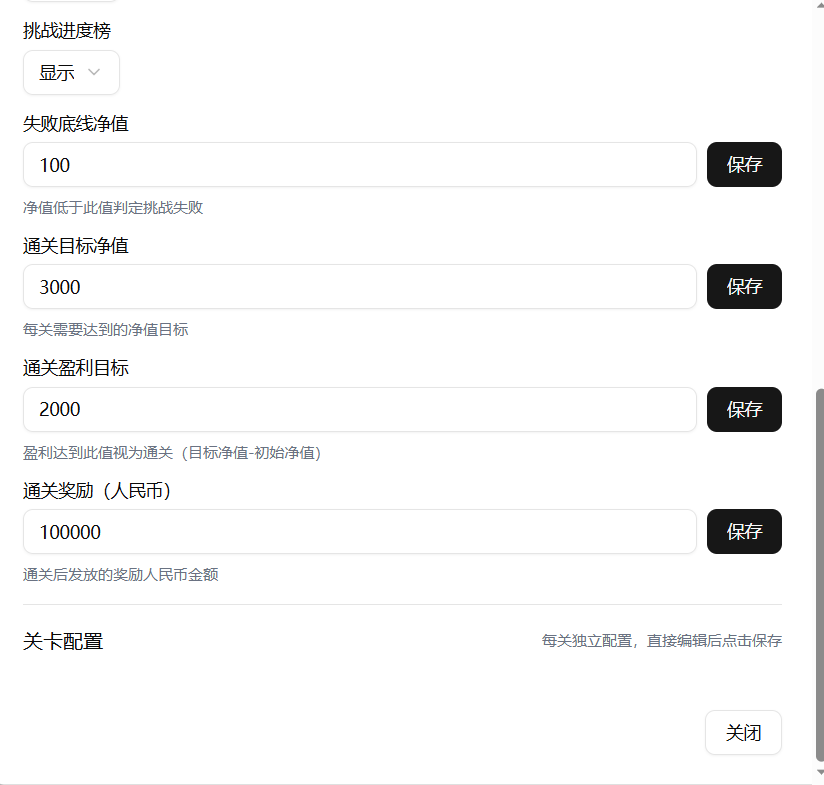
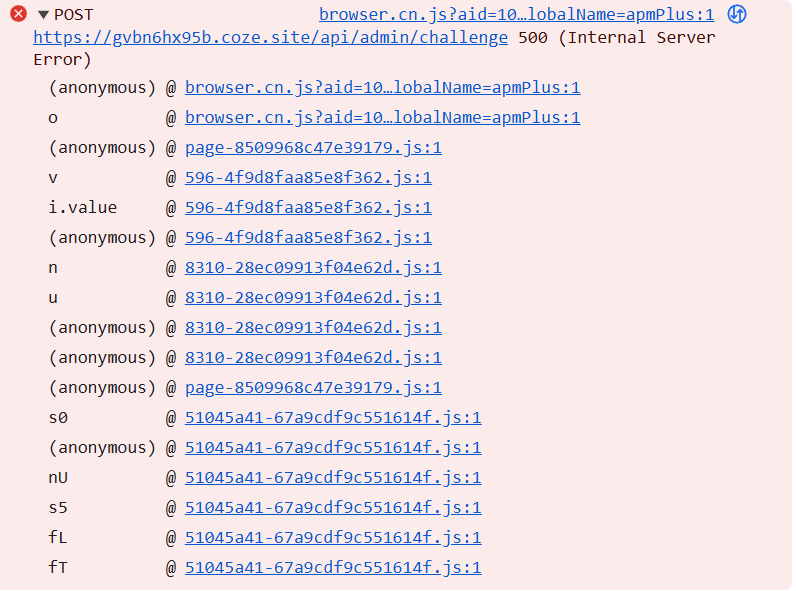
fix: 修复关卡配置保存时 is_active 字段类型不匹配问题

diff --git a/src/app/api/admin/challenge/route.ts b/src/app/api/admin/challenge/route.ts
@@ -36,16 +36,16 @@ async function ensureDefaultConfig(supabase: NonNullable<ReturnType<typeof getSu
     // 如果没有关卡配置，初始化默认关卡
     if (!levelRows || levelRows.length === 0) {
       const defaultLevels = [
-        { level: 1, name: '启念', description: '开始你的交易之旅', target_balance: 6000, initial_balance: 1000, fail_balance: 1800, reward: '继续挑战', is_active: true },
-        { level: 2, name: '立规', description: '建立交易规则', target_balance: 10000, initial_balance: 1000, fail_balance: 1500, reward: '继续挑战', is_active: true },
-        { level: 3, name: '守戒', description: '遵守交易纪律', target_balance: 20000, initial_balance: 1000, fail_balance: 3000, reward: '继续挑战', is_active: true },
-        { level: 4, name: '忍痛', description: '学会止损止盈', target_balance: 20000, initial_balance: 1000, fail_balance: 3000, reward: '继续挑战', is_active: true },
-        { level: 5, name: '止喜', description: '控制情绪波动', target_balance: 20000, initial_balance: 1000, fail_balance: 3000, reward: '继续挑战', is_active: true },
-        { level: 6, name: '观己', description: '认识自我弱点', target_balance: 20000, initial_balance: 1000, fail_balance: 3000, reward: '继续挑战', is_active: true },
-        { level: 7, name: '破执', description: '突破固有思维', target_balance: 20000, initial_balance: 1000, fail_balance: 3000, reward: '继续挑战', is_active: true },
-        { level: 8, name: '随势', description: '顺势而为', target_balance: 20000, initial_balance: 1000, fail_balance: 3000, reward: '继续挑战', is_active: true },
-        { level: 9, name: '忘我', description: '达到交易境界', target_balance: 20000, initial_balance: 1000, fail_balance: 3000, reward: '继续挑战', is_active: true },
-        { level: 10, name: '得道', description: '完成终极挑战', target_balance: 20000, initial_balance: 1000, fail_balance: 3000, reward: '通关大奖', is_active: true },
+        { level: 1, name: '启念', description: '开始你的交易之旅', target_balance: 6000, initial_balance: 1000, fail_balance: 1800, reward: '继续挑战', is_active: 1 },
+        { level: 2, name: '立规', description: '建立交易规则', target_balance: 10000, initial_balance: 1000, fail_balance: 1500, reward: '继续挑战', is_active: 1 },
+        { level: 3, name: '守戒', description: '遵守交易纪律', target_balance: 20000, initial_balance: 1000, fail_balance: 3000, reward: '继续挑战', is_active: 1 },
+        { level: 4, name: '忍痛', description: '学会止损止盈', target_balance: 20000, initial_balance: 1000, fail_balance: 3000, reward: '继续挑战', is_active: 1 },
+        { level: 5, name: '止喜', description: '控制情绪波动', target_balance: 20000, initial_balance: 1000, fail_balance: 3000, reward: '继续挑战', is_active: 1 },
+        { level: 6, name: '观己', description: '认识自我弱点', target_balance: 20000, initial_balance: 1000, fail_balance: 3000, reward: '继续挑战', is_active: 1 },
+        { level: 7, name: '破执', description: '突破固有思维', target_balance: 20000, initial_balance: 1000, fail_balance: 3000, reward: '继续挑战', is_active: 1 },
+        { level: 8, name: '随势', description: '顺势而为', target_balance: 20000, initial_balance: 1000, fail_balance: 3000, reward: '继续挑战', is_active: 1 },
+        { level: 9, name: '忘我', description: '达到交易境界', target_balance: 20000, initial_balance: 1000, fail_balance: 3000, reward: '继续挑战', is_active: 1 },
+        { level: 10, name: '得道', description: '完成终极挑战', target_balance: 20000, initial_balance: 1000, fail_balance: 3000, reward: '通关大奖', is_active: 1 },
       ];
       await supabase.from('challenge_level_config').insert(defaultLevels);
     }
@@ -250,7 +250,7 @@ export async function POST(request: Request) {
       }
 
       const updateData: Record<string, unknown> = {
-        is_active: true,
+        is_active: 1,  // 数据库字段为 integer 类型，1=激活，0=未激活
       };
       if (name !== undefined) updateData.name = name;
       if (description !== undefined) updateData.description = description;
@@ -281,7 +281,7 @@ export async function POST(request: Request) {
       if (!checkData || checkData.length === 0) {
         const insertData: Record<string, unknown> = {
           level,
-          is_active: true,
+          is_active: 1,  // 数据库字段为 integer 类型，1=激活，0=未激活
         };
         if (name !== undefined) insertData.name = name;
         if (description !== undefined) insertData.description = description;
@@ -324,16 +324,16 @@ export async function POST(request: Request) {
     // initLevels - 初始化关卡配置
     if (action === 'initLevels') {
       const defaultLevels = [
-        { level: 1, name: '启念', description: '开始你的交易之旅', target_balance: 6000, initial_balance: 1000, fail_balance: 1800, reward: '继续挑战', is_active: true },
-        { level: 2, name: '立规', description: '建立交易规则', target_balance: 10000, initial_balance: 1000, fail_balance: 1500, reward: '继续挑战', is_active: true },
-        { level: 3, name: '守戒', description: '遵守交易纪律', target_balance: 20000, initial_balance: 1000, fail_balance: 3000, reward: '继续挑战', is_active: true },
-        { level: 4, name: '忍痛', description: '学会止损止盈', target_balance: 20000, initial_balance: 1000, fail_balance: 3000, reward: '继续挑战', is_active: true },
-        { level: 5, name: '止喜', description: '控制情绪波动', target_balance: 20000, initial_balance: 1000, fail_balance: 3000, reward: '继续挑战', is_active: true },
-        { level: 6, name: '观己', description: '认识自我弱点', target_balance: 20000, initial_balance: 1000, fail_balance: 3000, reward: '继续挑战', is_active: true },
-        { level: 7, name: '破执', description: '突破固有思维', target_balance: 20000, initial_balance: 1000, fail_balance: 3000, reward: '继续挑战', is_active: true },
-        { level: 8, name: '随势', description: '顺势而为', target_balance: 20000, initial_balance: 1000, fail_balance: 3000, reward: '继续挑战', is_active: true },
-        { level: 9, name: '忘我', description: '达到交易境界', target_balance: 20000, initial_balance: 1000, fail_balance: 3000, reward: '继续挑战', is_active: true },
-        { level: 10, name: '得道', description: '完成终极挑战', target_balance: 20000, initial_balance: 1000, fail_balance: 3000, reward: '通关大奖', is_active: true },
+        { level: 1, name: '启念', description: '开始你的交易之旅', target_balance: 6000, initial_balance: 1000, fail_balance: 1800, reward: '继续挑战', is_active: 1 },
+        { level: 2, name: '立规', description: '建立交易规则', target_balance: 10000, initial_balance: 1000, fail_balance: 1500, reward: '继续挑战', is_active: 1 },
+        { level: 3, name: '守戒', description: '遵守交易纪律', target_balance: 20000, initial_balance: 1000, fail_balance: 3000, reward: '继续挑战', is_active: 1 },
+        { level: 4, name: '忍痛', description: '学会止损止盈', target_balance: 20000, initial_balance: 1000, fail_balance: 3000, reward: '继续挑战', is_active: 1 },
+        { level: 5, name: '止喜', description: '控制情绪波动', target_balance: 20000, initial_balance: 1000, fail_balance: 3000, reward: '继续挑战', is_active: 1 },
+        { level: 6, name: '观己', description: '认识自我弱点', target_balance: 20000, initial_balance: 1000, fail_balance: 3000, reward: '继续挑战', is_active: 1 },
+        { level: 7, name: '破执', description: '突破固有思维', target_balance: 20000, initial_balance: 1000, fail_balance: 3000, reward: '继续挑战', is_active: 1 },
+        { level: 8, name: '随势', description: '顺势而为', target_balance: 20000, initial_balance: 1000, fail_balance: 3000, reward: '继续挑战', is_active: 1 },
+        { level: 9, name: '忘我', description: '达到交易境界', target_balance: 20000, initial_balance: 1000, fail_balance: 3000, reward: '继续挑战', is_active: 1 },
+        { level: 10, name: '得道', description: '完成终极挑战', target_balance: 20000, initial_balance: 1000, fail_balance: 3000, reward: '通关大奖', is_active: 1 },
       ];
 
       for (const level of defaultLevels) {

diff --git a/src/app/admin/challenge/page.tsx b/src/app/admin/challenge/page.tsx
@@ -271,6 +271,8 @@ export default function ChallengeAdminPage() {
       });
 
       const data = await res.json();
+      console.log('保存关卡配置响应:', res.status, data);
+      
       if (res.ok && data.success) {
         // 检查是否已存在该关卡
         const existingIndex = levelConfigs.findIndex(l => l.level === editingLevel.level);
@@ -295,10 +297,13 @@ export default function ChallengeAdminPage() {
         setLevelDialogOpen(false);
         alert('关卡配置已保存');
       } else {
-        alert(data.error || '保存失败');
+        const errorMsg = data.error || '保存失败';
+        const details = data.details || '';
+        alert(`${errorMsg}${details ? '\n\n详情: ' + details : ''}`);
       }
     } catch (error) {
-      alert('保存失败');
+      console.error('保存关卡配置出错:', error);
+      alert('保存失败，请查看控制台');
     }
   };
 

diff --git a/public/sw.js b/public/sw.js
@@ -1,1 +1,1 @@
-if(!self.define){let e,a={};const d=(d,s)=>(d=new URL(d+".js",s).href,a[d]||new Promise(a=>{if("document"in self){const e=document.createElement("script");e.src=d,e.onload=a,document.head.appendChild(e)}else e=d,importScripts(d),a()}).then(()=>{let e=a[d];if(!e)throw new Error(`Module ${d} didn’t register its module`);return e}));self.define=(s,i)=>{const t=e||("document"in self?document.currentScript.src:"")||location.href;if(a[t])return;let n={};const c=e=>d(e,t),r={module:{uri:t},exports:n,require:c};a[t]=Promise.all(s.map(e=>r[e]||c(e))).then(e=>(i(...e),n))}}define(["./workbox-c05e7c83"],function(e){"use strict";importScripts(),self.skipWaiting(),e.clientsClaim(),e.precacheAndRoute([{url:"/RemoteSender_MT4_v2.1.mq4",revision:"dee0898cc4b05ee8a23b99f9dccd742b"},{url:"/_next/static/chunks/120-d562f716aa27d254.js",revision:"d562f716aa27d254"},{url:"/_next/static/chunks/2290-dbc155e5dec39191.js",revision:"dbc155e5dec39191"},{url:"/_next/static/chunks/248-9f87524f2c231605.js",revision:"9f87524f2c231605"},{url:"/_next/static/chunks/3119-b56b965ce3f0caf7.js",revision:"b56b965ce3f0caf7"},{url:"/_next/static/chunks/3279-fc63a7b1cf42abe6.js",revision:"fc63a7b1cf42abe6"},{url:"/_next/static/chunks/3496-46c82e46d45a46d8.js",revision:"46c82e46d45a46d8"},{url:"/_next/static/chunks/4493-c9ef115cbb84c492.js",revision:"c9ef115cbb84c492"},{url:"/_next/static/chunks/4744-e5e921da100a92ce.js",revision:"e5e921da100a92ce"},{url:"/_next/static/chunks/4834-18d57ec14faf4169.js",revision:"18d57ec14faf4169"},{url:"/_next/static/chunks/4969-0c65cfde9200794c.js",revision:"0c65cfde9200794c"},{url:"/_next/static/chunks/51045a41-67a9cdf9c551614f.js",revision:"67a9cdf9c551614f"},{url:"/_next/static/chunks/5245-ee0a0be458c5cc54.js",revision:"ee0a0be458c5cc54"},{url:"/_next/static/chunks/5356-50d0aef47934fd44.js",revision:"50d0aef47934fd44"},{url:"/_next/static/chunks/596-4f9d8faa85e8f362.js",revision:"4f9d8faa85e8f362"},{url:"/_next/static/chunks/6189-60728e599d6d01e2.js",revision:"60728e599d6d01e2"},{url:"/_next/static/chunks/6300.fd4bf4b9995a76bf.js",revision:"fd4bf4b9995a76bf"},{url:"/_next/static/chunks/6321-dcec66a9d1cf1106.js",revision:"dcec66a9d1cf1106"},{url:"/_next/static/chunks/7853-b979b37b0d2b5f37.js",revision:"b979b37b0d2b5f37"},{url:"/_next/static/chunks/8104-aa69aae00e7cc895.js",revision:"aa69aae00e7cc895"},{url:"/_next/static/chunks/8200-084eb3373158b885.js",revision:"084eb3373158b885"},{url:"/_next/static/chunks/8265-dc3b2021ff5b6765.js",revision:"dc3b2021ff5b6765"},{url:"/_next/static/chunks/8310-28ec09913f04e62d.js",revision:"28ec09913f04e62d"},{url:"/_next/static/chunks/845-718ac55ff4fb6904.js",revision:"718ac55ff4fb6904"},{url:"/_next/static/chunks/9505.6c1ceda4e7b4e25f.js",revision:"6c1ceda4e7b4e25f"},{url:"/_next/static/chunks/9584-2cce6053f0e87db7.js",revision:"2cce6053f0e87db7"},{url:"/_next/static/chunks/9981-049f637e843970da.js",revision:"049f637e843970da"},{url:"/_next/static/chunks/aa136b58-d5713c8be3bfd638.js",revision:"d5713c8be3bfd638"},{url:"/_next/static/chunks/app/_global-error/page-fde39d298d49572a.js",revision:"fde39d298d49572a"},{url:"/_next/static/chunks/app/_not-found/page-3a7ccbd36777898e.js",revision:"3a7ccbd36777898e"},{url:"/_next/static/chunks/app/admin/challenge/page-698c74fe9bb1c4a7.js",revision:"698c74fe9bb1c4a7"},{url:"/_next/static/chunks/app/admin/ea/page-c3be377e8b50b73e.js",revision:"c3be377e8b50b73e"},{url:"/_next/static/chunks/app/admin/page-e78ed893515ea849.js",revision:"e78ed893515ea849"},{url:"/_next/static/chunks/app/api/admin/announcement/route-fde39d298d49572a.js",revision:"fde39d298d49572a"},{url:"/_next/static/chunks/app/api/admin/challenge/route-fde39d298d49572a.js",revision:"fde39d298d49572a"},{url:"/_next/static/chunks/app/api/admin/config/route-fde39d298d49572a.js",revision:"fde39d298d49572a"},{url:"/_next/static/chunks/app/api/admin/db-test/route-fde39d298d49572a.js",revision:"fde39d298d49572a"},{url:"/_next/static/chunks/app/api/admin/docs/route-fde39d298d49572a.js",revision:"fde39d298d49572a"},{url:"/_next/static/chunks/app/api/admin/fix-columns/route-fde39d298d49572a.js",revision:"fde39d298d49572a"},{url:"/_next/static/chunks/app/api/admin/fix-signals/route-fde39d298d49572a.js",revision:"fde39d298d49572a"},{url:"/_next/static/chunks/app/api/admin/init-db/route-fde39d298d49572a.js",revision:"fde39d298d49572a"},{url:"/_next/static/chunks/app/api/admin/init-docs/route-fde39d298d49572a.js",revision:"fde39d298d49572a"},{url:"/_next/static/chunks/app/api/admin/init-ea/route-fde39d298d49572a.js",revision:"fde39d298d49572a"},{url:"/_next/static/chunks/app/api/admin/init/route-fde39d298d49572a.js",revision:"fde39d298d49572a"},{url:"/_next/static/chunks/app/api/admin/migrate-avatar-fix/route-fde39d298d49572a.js",revision:"fde39d298d49572a"},{url:"/_next/static/chunks/app/api/admin/migrate-avatar/route-fde39d298d49572a.js",revision:"fde39d298d49572a"},{url:"/_next/static/chunks/app/api/admin/migrate-forum/route-fde39d298d49572a.js",revision:"fde39d298d49572a"},{url:"/_next/static/chunks/app/api/admin/migrate-name-field/route-fde39d298d49572a.js",revision:"fde39d298d49572a"},{url:"/_next/static/chunks/app/api/admin/migrate-planet-duration/route-fde39d298d49572a.js",revision:"fde39d298d49572a"},{url:"/_next/static/chunks/app/api/admin/migrate-profile/route-fde39d298d49572a.js",revision:"fde39d298d49572a"},{url:"/_next/static/chunks/app/api/admin/migrate/route-fde39d298d49572a.js",revision:"fde39d298d49572a"},{url:"/_next/static/chunks/app/api/admin/recharge/route-fde39d298d49572a.js",revision:"fde39d298d49572a"},{url:"/_next/static/chunks/app/api/admin/stats/route-fde39d298d49572a.js",revision:"fde39d298d49572a"},{url:"/_next/static/chunks/app/api/admin/users/route-fde39d298d49572a.js",revision:"fde39d298d49572a"},{url:"/_next/static/chunks/app/api/auth/%5B...nextauth%5D/route-fde39d298d49572a.js",revision:"fde39d298d49572a"},{url:"/_next/static/chunks/app/api/auth/register/route-fde39d298d49572a.js",revision:"fde39d298d49572a"},{url:"/_next/static/chunks/app/api/challenge/announcement/route-fde39d298d49572a.js",revision:"fde39d298d49572a"},{url:"/_next/static/chunks/app/api/challenge/balance/route-fde39d298d49572a.js",revision:"fde39d298d49572a"},{url:"/_next/static/chunks/app/api/challenge/equity-history/route-fde39d298d49572a.js",revision:"fde39d298d49572a"},{url:"/_next/static/chunks/app/api/challenge/hall-of-fame/route-fde39d298d49572a.js",revision:"fde39d298d49572a"},{url:"/_next/static/chunks/app/api/challenge/hall/detail/route-fde39d298d49572a.js",revision:"fde39d298d49572a"},{url:"/_next/static/chunks/app/api/challenge/hall/route-fde39d298d49572a.js",revision:"fde39d298d49572a"},{url:"/_next/static/chunks/app/api/challenge/init/route-fde39d298d49572a.js",revision:"fde39d298d49572a"},{url:"/_next/static/chunks/app/api/challenge/level/route-fde39d298d49572a.js",revision:"fde39d298d49572a"},{url:"/_next/static/chunks/app/api/challenge/participants/route-fde39d298d49572a.js",revision:"fde39d298d49572a"},{url:"/_next/static/chunks/app/api/challenge/player/%5BuserId%5D/route-fde39d298d49572a.js",revision:"fde39d298d49572a"},{url:"/_next/static/chunks/app/api/challenge/player/%5BuserId%5D/trades/route-fde39d298d49572a.js",revision:"fde39d298d49572a"},{url:"/_next/static/chunks/app/api/challenge/register/route-fde39d298d49572a.js",revision:"fde39d298d49572a"},{url:"/_next/static/chunks/app/api/coin/transfer/route-fde39d298d49572a.js",revision:"fde39d298d49572a"},{url:"/_next/static/chunks/app/api/debug-db/route-fde39d298d49572a.js",revision:"fde39d298d49572a"},{url:"/_next/static/chunks/app/api/docs/route-fde39d298d49572a.js",revision:"fde39d298d49572a"},{url:"/_next/static/chunks/app/api/ea/download/route-fde39d298d49572a.js",revision:"fde39d298d49572a"},{url:"/_next/static/chunks/app/api/ea/list/route-fde39d298d49572a.js",revision:"fde39d298d49572a"},{url:"/_next/static/chunks/app/api/ea/manage/route-fde39d298d49572a.js",revision:"fde39d298d49572a"},{url:"/_next/static/chunks/app/api/ea/products/route-fde39d298d49572a.js",revision:"fde39d298d49572a"},{url:"/_next/static/chunks/app/api/ea/purchase/route-fde39d298d49572a.js",revision:"fde39d298d49572a"},{url:"/_next/static/chunks/app/api/ea/upload/route-fde39d298d49572a.js",revision:"fde39d298d49572a"},{url:"/_next/static/chunks/app/api/equity/report/route-fde39d298d49572a.js",revision:"fde39d298d49572a"},{url:"/_next/static/chunks/app/api/follow/my/route-fde39d298d49572a.js",revision:"fde39d298d49572a"},{url:"/_next/static/chunks/app/api/follow/pause/route-fde39d298d49572a.js",revision:"fde39d298d49572a"},{url:"/_next/static/chunks/app/api/follow/route-fde39d298d49572a.js",revision:"fde39d298d49572a"},{url:"/_next/static/chunks/app/api/health/route-fde39d298d49572a.js",revision:"fde39d298d49572a"},{url:"/_next/static/chunks/app/api/message/conversations/route-fde39d298d49572a.js",revision:"fde39d298d49572a"},{url:"/_next/static/chunks/app/api/message/send/route-fde39d298d49572a.js",revision:"fde39d298d49572a"},{url:"/_next/static/chunks/app/api/message/upload/route-fde39d298d49572a.js",revision:"fde39d298d49572a"},{url:"/_next/static/chunks/app/api/mt-account/route-fde39d298d49572a.js",revision:"fde39d298d49572a"},{url:"/_next/static/chunks/app/api/planet/%5Bid%5D/route-fde39d298d49572a.js",revision:"fde39d298d49572a"},{url:"/_next/static/chunks/app/api/planet/applications/route-fde39d298d49572a.js",revision:"fde39d298d49572a"},{url:"/_next/static/chunks/app/api/planet/apply-publisher/route-fde39d298d49572a.js",revision:"fde39d298d49572a"},{url:"/_next/static/chunks/app/api/planet/approve-publisher/route-fde39d298d49572a.js",revision:"fde39d298d49572a"},{url:"/_next/static/chunks/app/api/planet/create/route-fde39d298d49572a.js",revision:"fde39d298d49572a"},{url:"/_next/static/chunks/app/api/planet/join/route-fde39d298d49572a.js",revision:"fde39d298d49572a"},{url:"/_next/static/chunks/app/api/planet/list/route-fde39d298d49572a.js",revision:"fde39d298d49572a"},{url:"/_next/static/chunks/app/api/planet/members/route-fde39d298d49572a.js",revision:"fde39d298d49572a"},{url:"/_next/static/chunks/app/api/planet/my/route-fde39d298d49572a.js",revision:"fde39d298d49572a"},{url:"/_next/static/chunks/app/api/planet/reject-publisher/route-fde39d298d49572a.js",revision:"fde39d298d49572a"},{url:"/_next/static/chunks/app/api/planet/set-owner-publisher/route-fde39d298d49572a.js",revision:"fde39d298d49572a"},{url:"/_next/static/chunks/app/api/planet/set-ticket/route-fde39d298d49572a.js",revision:"fde39d298d49572a"},{url:"/_next/static/chunks/app/api/planet/update/route-fde39d298d49572a.js",revision:"fde39d298d49572a"},{url:"/_next/static/chunks/app/api/purchase/validate/route-fde39d298d49572a.js",revision:"fde39d298d49572a"},{url:"/_next/static/chunks/app/api/read-doc/route-fde39d298d49572a.js",revision:"fde39d298d49572a"},{url:"/_next/static/chunks/app/api/recharge/apply/route-fde39d298d49572a.js",revision:"fde39d298d49572a"},{url:"/_next/static/chunks/app/api/recharge/route-fde39d298d49572a.js",revision:"fde39d298d49572a"},{url:"/_next/static/chunks/app/api/recharge/upload/route-fde39d298d49572a.js",revision:"fde39d298d49572a"},{url:"/_next/static/chunks/app/api/signal/%5Bid%5D/route-fde39d298d49572a.js",revision:"fde39d298d49572a"},{url:"/_next/static/chunks/app/api/signal/receive/route-fde39d298d49572a.js",revision:"fde39d298d49572a"},{url:"/_next/static/chunks/app/api/signals/detail/route-fde39d298d49572a.js",revision:"fde39d298d49572a"},{url:"/_next/static/chunks/app/api/signals/poll/route-fde39d298d49572a.js",revision:"fde39d298d49572a"},{url:"/_next/static/chunks/app/api/signals/stats/route-fde39d298d49572a.js",revision:"fde39d298d49572a"},{url:"/_next/static/chunks/app/api/upload-code/route-fde39d298d49572a.js",revision:"fde39d298d49572a"},{url:"/_next/static/chunks/app/api/upload/screenshot/route-fde39d298d49572a.js",revision:"fde39d298d49572a"},{url:"/_next/static/chunks/app/api/user/avatar/route-fde39d298d49572a.js",revision:"fde39d298d49572a"},{url:"/_next/static/chunks/app/api/user/follow/list/route-fde39d298d49572a.js",revision:"fde39d298d49572a"},{url:"/_next/static/chunks/app/api/user/follow/route-fde39d298d49572a.js",revision:"fde39d298d49572a"},{url:"/_next/static/chunks/app/api/user/info/route-fde39d298d49572a.js",revision:"fde39d298d49572a"},{url:"/_next/static/chunks/app/api/user/name/route-fde39d298d49572a.js",revision:"fde39d298d49572a"},{url:"/_next/static/chunks/app/api/user/profile/route-fde39d298d49572a.js",revision:"fde39d298d49572a"},{url:"/_next/static/chunks/app/api/user/search/route-fde39d298d49572a.js",revision:"fde39d298d49572a"},{url:"/_next/static/chunks/app/challenge/hall-of-fame/page-c9c8bb92e172543e.js",revision:"c9c8bb92e172543e"},{url:"/_next/static/chunks/app/challenge/hall/detail/page-6a0904f5ee2e88b4.js",revision:"6a0904f5ee2e88b4"},{url:"/_next/static/chunks/app/challenge/hall/page-769a500987a652ca.js",revision:"769a500987a652ca"},{url:"/_next/static/chunks/app/challenge/page-b0437daf03a4033e.js",revision:"b0437daf03a4033e"},{url:"/_next/static/chunks/app/challenge/play/page-dec9dfb1290ddd3d.js",revision:"dec9dfb1290ddd3d"},{url:"/_next/static/chunks/app/challenge/player/%5BuserId%5D/page-b972aec196f73c3d.js",revision:"b972aec196f73c3d"},{url:"/_next/static/chunks/app/diagnose/page-92c6d17db6fa0ea4.js",revision:"92c6d17db6fa0ea4"},{url:"/_next/static/chunks/app/docs/page-7fc46ef9dff33095.js",revision:"7fc46ef9dff33095"},{url:"/_next/static/chunks/app/download/android/page-d1713c5d945f4f28.js",revision:"d1713c5d945f4f28"},{url:"/_next/static/chunks/app/download/page-9e3b0cba6a01f1c8.js",revision:"9e3b0cba6a01f1c8"},{url:"/_next/static/chunks/app/layout-daec6dee9a6552a8.js",revision:"daec6dee9a6552a8"},{url:"/_next/static/chunks/app/login/page-72cbe983df3f98b4.js",revision:"72cbe983df3f98b4"},{url:"/_next/static/chunks/app/page-3ac27f4a555c1f2c.js",revision:"3ac27f4a555c1f2c"},{url:"/_next/static/chunks/app/planet/%5Bid%5D/page-227dc066e12b4471.js",revision:"227dc066e12b4471"},{url:"/_next/static/chunks/app/planet/create/page-dd423c427b7e6d49.js",revision:"dd423c427b7e6d49"},{url:"/_next/static/chunks/app/planet/manage/%5Bid%5D/page-a2ad103ccbf4c517.js",revision:"a2ad103ccbf4c517"},{url:"/_next/static/chunks/app/planet/my/page-60cb759fb4ab9ca7.js",revision:"60cb759fb4ab9ca7"},{url:"/_next/static/chunks/app/planet/page-7137ef7a3ffa106c.js",revision:"7137ef7a3ffa106c"},{url:"/_next/static/chunks/app/register/page-a3d7c2df06546348.js",revision:"a3d7c2df06546348"},{url:"/_next/static/chunks/app/robots.txt/route-fde39d298d49572a.js",revision:"fde39d298d49572a"},{url:"/_next/static/chunks/app/signal/%5Baccount%5D/page-ff0340133fcf237b.js",revision:"ff0340133fcf237b"},{url:"/_next/static/chunks/app/social/page-6e9343de279803f8.js",revision:"6e9343de279803f8"},{url:"/_next/static/chunks/app/user/page-64e43a14dd2d8b76.js",revision:"64e43a14dd2d8b76"},{url:"/_next/static/chunks/framework-55ab4b4de3eb4ec8.js",revision:"55ab4b4de3eb4ec8"},{url:"/_next/static/chunks/main-2e50d6483b5a78b0.js",revision:"2e50d6483b5a78b0"},{url:"/_next/static/chunks/main-app-e2a6d6c57a4d8e1c.js",revision:"e2a6d6c57a4d8e1c"},{url:"/_next/static/chunks/next/dist/client/components/builtin/app-error-fde39d298d49572a.js",revision:"fde39d298d49572a"},{url:"/_next/static/chunks/next/dist/client/components/builtin/forbidden-fde39d298d49572a.js",revision:"fde39d298d49572a"},{url:"/_next/static/chunks/next/dist/client/components/builtin/global-error-0a754105eadbaae1.js",revision:"0a754105eadbaae1"},{url:"/_next/static/chunks/next/dist/client/components/builtin/not-found-fde39d298d49572a.js",revision:"fde39d298d49572a"},{url:"/_next/static/chunks/next/dist/client/components/builtin/unauthorized-fde39d298d49572a.js",revision:"fde39d298d49572a"},{url:"/_next/static/chunks/polyfills-42372ed130431b0a.js",revision:"846118c33b2c0e922d7b3a7676f81f6f"},{url:"/_next/static/chunks/webpack-57b6405ace3c677f.js",revision:"57b6405ace3c677f"},{url:"/_next/static/css/0366189a42ba2609.css",revision:"0366189a42ba2609"},{url:"/_next/static/css/1d33e9b82c6d193e.css",revision:"1d33e9b82c6d193e"},{url:"/_next/static/css/5082389ef2110b63.css",revision:"5082389ef2110b63"},{url:"/_next/static/css/5d83e0ada55d2773.css",revision:"5d83e0ada55d2773"},{url:"/_next/static/css/813ffdc51a90edf4.css",revision:"813ffdc51a90edf4"},{url:"/_next/static/yi6AKACnMVJCiDGVJrG3r/_buildManifest.js",revision:"1ab061800ad5133040385a0730de5f4f"},{url:"/_next/static/yi6AKACnMVJCiDGVJrG3r/_ssgManifest.js",revision:"b6652df95db52feb4daf4eca35380933"},{url:"/download/miaolegemiao-android-app.tar.gz",revision:"8fdf33b2f0d98967e3bdf7a0774030d9"},{url:"/favicon.ico",revision:"0fc672880a975cfc4c8c7ad923823a9b"},{url:"/file.svg",revision:"d09f95206c3fa0bb9bd9fefabfd0ea71"},{url:"/globe.svg",revision:"2aaafa6a49b6563925fe440891e32717"},{url:"/icons/icon-128x128.png",revision:"540845157d80ab5347417294edc58c75"},{url:"/icons/icon-144x144.png",revision:"5fcf60988225c374886f65e018750850"},{url:"/icons/icon-152x152.png",revision:"a93f7b53c274a5d0f59026e5b83ad4df"},{url:"/icons/icon-192x192.png",revision:"5f48501726515a163395780abf6dc285"},{url:"/icons/icon-384x384.png",revision:"b7935298f36c245c91b895af5c107379"},{url:"/icons/icon-512x512.png",revision:"d2d569b7047e08cc0deb4e2eb166c2fa"},{url:"/icons/icon-72x72.png",revision:"1fc09bb2b71ef3aba10bf741e8e81d67"},{url:"/icons/icon-96x96.png",revision:"f35dad04d8b668a966da8e64c97acc23"},{url:"/icons/icon.svg",revision:"a085adc932541bfe397f09a0db4982bc"},{url:"/icons/planet-shortcut.png",revision:"fece5f9f80fb7384d3df1390e08fab28"},{url:"/icons/user-shortcut.png",revision:"0c5f5b8686ec799c4fb1b70acb9ca401"},{url:"/logo.png",revision:"04165e83c749c9be3d0289920ce60209"},{url:"/manifest.json",revision:"8158ac4504cfac44d80432ed7276e8a6"},{url:"/mlmg-planet-code.tar.gz",revision:"bc2c0901539bbfa25b58c0ec48452300"},{url:"/next.svg",revision:"8e061864f388b47f33a1c3780831193e"},{url:"/vercel.svg",revision:"c0af2f507b369b085b35ef4bbe3bcf1e"},{url:"/window.svg",revision:"a2760511c65806022ad20adf74370ff3"},{url:"/跟单接收端EA.mq5",revision:"55bdd58fd0a1513ed92d91fc1e71d6a9"}],{ignoreURLParametersMatching:[]}),e.cleanupOutdatedCaches(),e.registerRoute("/",new e.NetworkFirst({cacheName:"start-url",plugins:[{cacheWillUpdate:async({request:e,response:a,event:d,state:s})=>a&&"opaqueredirect"===a.type?new Response(a.body,{status:200,statusText:"OK",headers:a.headers}):a}]}),"GET"),e.registerRoute(/^https:\/\/.*\.(?:png|jpg|jpeg|svg|gif|webp|ico)$/i,new e.CacheFirst({cacheName:"images-cache",plugins:[new e.ExpirationPlugin({maxEntries:50,maxAgeSeconds:2592e3})]}),"GET"),e.registerRoute(/^https:\/\/.*\.(?:js|css)$/i,new e.StaleWhileRevalidate({cacheName:"static-resources",plugins:[new e.ExpirationPlugin({maxEntries:30,maxAgeSeconds:604800})]}),"GET"),e.registerRoute(/\/api\//i,new e.NetworkFirst({cacheName:"api-cache",networkTimeoutSeconds:10,plugins:[new e.ExpirationPlugin({maxEntries:50,maxAgeSeconds:300})]}),"GET")});
+if(!self.define){let e,a={};const d=(d,s)=>(d=new URL(d+".js",s).href,a[d]||new Promise(a=>{if("document"in self){const e=document.createElement("script");e.src=d,e.onload=a,document.head.appendChild(e)}else e=d,importScripts(d),a()}).then(()=>{let e=a[d];if(!e)throw new Error(`Module ${d} didn’t register its module`);return e}));self.define=(s,i)=>{const t=e||("document"in self?document.currentScript.src:"")||location.href;if(a[t])return;let n={};const c=e=>d(e,t),r={module:{uri:t},exports:n,require:c};a[t]=Promise.all(s.map(e=>r[e]||c(e))).then(e=>(i(...e),n))}}define(["./workbox-c05e7c83"],function(e){"use strict";importScripts(),self.skipWaiting(),e.clientsClaim(),e.precacheAndRoute([{url:"/RemoteSender_MT4_v2.1.mq4",revision:"dee0898cc4b05ee8a23b99f9dccd742b"},{url:"/_next/static/6y3GVLJDgCysX2MiB9Rsb/_buildManifest.js",revision:"1ab061800ad5133040385a0730de5f4f"},{url:"/_next/static/6y3GVLJDgCysX2MiB9Rsb/_ssgManifest.js",revision:"b6652df95db52feb4daf4eca35380933"},{url:"/_next/static/chunks/120-d562f716aa27d254.js",revision:"d562f716aa27d254"},{url:"/_next/static/chunks/2290-dbc155e5dec39191.js",revision:"dbc155e5dec39191"},{url:"/_next/static/chunks/248-9f87524f2c231605.js",revision:"9f87524f2c231605"},{url:"/_next/static/chunks/3119-b56b965ce3f0caf7.js",revision:"b56b965ce3f0caf7"},{url:"/_next/static/chunks/3279-fc63a7b1cf42abe6.js",revision:"fc63a7b1cf42abe6"},{url:"/_next/static/chunks/3496-46c82e46d45a46d8.js",revision:"46c82e46d45a46d8"},{url:"/_next/static/chunks/4493-c9ef115cbb84c492.js",revision:"c9ef115cbb84c492"},{url:"/_next/static/chunks/4744-e5e921da100a92ce.js",revision:"e5e921da100a92ce"},{url:"/_next/static/chunks/4834-18d57ec14faf4169.js",revision:"18d57ec14faf4169"},{url:"/_next/static/chunks/4969-0c65cfde9200794c.js",revision:"0c65cfde9200794c"},{url:"/_next/static/chunks/51045a41-67a9cdf9c551614f.js",revision:"67a9cdf9c551614f"},{url:"/_next/static/chunks/5245-ee0a0be458c5cc54.js",revision:"ee0a0be458c5cc54"},{url:"/_next/static/chunks/5356-50d0aef47934fd44.js",revision:"50d0aef47934fd44"},{url:"/_next/static/chunks/596-4f9d8faa85e8f362.js",revision:"4f9d8faa85e8f362"},{url:"/_next/static/chunks/6189-60728e599d6d01e2.js",revision:"60728e599d6d01e2"},{url:"/_next/static/chunks/6300.fd4bf4b9995a76bf.js",revision:"fd4bf4b9995a76bf"},{url:"/_next/static/chunks/6321-dcec66a9d1cf1106.js",revision:"dcec66a9d1cf1106"},{url:"/_next/static/chunks/7853-b979b37b0d2b5f37.js",revision:"b979b37b0d2b5f37"},{url:"/_next/static/chunks/8104-aa69aae00e7cc895.js",revision:"aa69aae00e7cc895"},{url:"/_next/static/chunks/8200-084eb3373158b885.js",revision:"084eb3373158b885"},{url:"/_next/static/chunks/8265-dc3b2021ff5b6765.js",revision:"dc3b2021ff5b6765"},{url:"/_next/static/chunks/8310-28ec09913f04e62d.js",revision:"28ec09913f04e62d"},{url:"/_next/static/chunks/845-718ac55ff4fb6904.js",revision:"718ac55ff4fb6904"},{url:"/_next/static/chunks/9505.6c1ceda4e7b4e25f.js",revision:"6c1ceda4e7b4e25f"},{url:"/_next/static/chunks/9584-2cce6053f0e87db7.js",revision:"2cce6053f0e87db7"},{url:"/_next/static/chunks/9981-049f637e843970da.js",revision:"049f637e843970da"},{url:"/_next/static/chunks/aa136b58-d5713c8be3bfd638.js",revision:"d5713c8be3bfd638"},{url:"/_next/static/chunks/app/_global-error/page-fde39d298d49572a.js",revision:"fde39d298d49572a"},{url:"/_next/static/chunks/app/_not-found/page-3a7ccbd36777898e.js",revision:"3a7ccbd36777898e"},{url:"/_next/static/chunks/app/admin/challenge/page-538b2d766cd090b8.js",revision:"538b2d766cd090b8"},{url:"/_next/static/chunks/app/admin/ea/page-c3be377e8b50b73e.js",revision:"c3be377e8b50b73e"},{url:"/_next/static/chunks/app/admin/page-e78ed893515ea849.js",revision:"e78ed893515ea849"},{url:"/_next/static/chunks/app/api/admin/announcement/route-fde39d298d49572a.js",revision:"fde39d298d49572a"},{url:"/_next/static/chunks/app/api/admin/challenge/route-fde39d298d49572a.js",revision:"fde39d298d49572a"},{url:"/_next/static/chunks/app/api/admin/config/route-fde39d298d49572a.js",revision:"fde39d298d49572a"},{url:"/_next/static/chunks/app/api/admin/db-test/route-fde39d298d49572a.js",revision:"fde39d298d49572a"},{url:"/_next/static/chunks/app/api/admin/docs/route-fde39d298d49572a.js",revision:"fde39d298d49572a"},{url:"/_next/static/chunks/app/api/admin/fix-columns/route-fde39d298d49572a.js",revision:"fde39d298d49572a"},{url:"/_next/static/chunks/app/api/admin/fix-signals/route-fde39d298d49572a.js",revision:"fde39d298d49572a"},{url:"/_next/static/chunks/app/api/admin/init-db/route-fde39d298d49572a.js",revision:"fde39d298d49572a"},{url:"/_next/static/chunks/app/api/admin/init-docs/route-fde39d298d49572a.js",revision:"fde39d298d49572a"},{url:"/_next/static/chunks/app/api/admin/init-ea/route-fde39d298d49572a.js",revision:"fde39d298d49572a"},{url:"/_next/static/chunks/app/api/admin/init/route-fde39d298d49572a.js",revision:"fde39d298d49572a"},{url:"/_next/static/chunks/app/api/admin/migrate-avatar-fix/route-fde39d298d49572a.js",revision:"fde39d298d49572a"},{url:"/_next/static/chunks/app/api/admin/migrate-avatar/route-fde39d298d49572a.js",revision:"fde39d298d49572a"},{url:"/_next/static/chunks/app/api/admin/migrate-forum/route-fde39d298d49572a.js",revision:"fde39d298d49572a"},{url:"/_next/static/chunks/app/api/admin/migrate-name-field/route-fde39d298d49572a.js",revision:"fde39d298d49572a"},{url:"/_next/static/chunks/app/api/admin/migrate-planet-duration/route-fde39d298d49572a.js",revision:"fde39d298d49572a"},{url:"/_next/static/chunks/app/api/admin/migrate-profile/route-fde39d298d49572a.js",revision:"fde39d298d49572a"},{url:"/_next/static/chunks/app/api/admin/migrate/route-fde39d298d49572a.js",revision:"fde39d298d49572a"},{url:"/_next/static/chunks/app/api/admin/recharge/route-fde39d298d49572a.js",revision:"fde39d298d49572a"},{url:"/_next/static/chunks/app/api/admin/stats/route-fde39d298d49572a.js",revision:"fde39d298d49572a"},{url:"/_next/static/chunks/app/api/admin/users/route-fde39d298d49572a.js",revision:"fde39d298d49572a"},{url:"/_next/static/chunks/app/api/auth/%5B...nextauth%5D/route-fde39d298d49572a.js",revision:"fde39d298d49572a"},{url:"/_next/static/chunks/app/api/auth/register/route-fde39d298d49572a.js",revision:"fde39d298d49572a"},{url:"/_next/static/chunks/app/api/challenge/announcement/route-fde39d298d49572a.js",revision:"fde39d298d49572a"},{url:"/_next/static/chunks/app/api/challenge/balance/route-fde39d298d49572a.js",revision:"fde39d298d49572a"},{url:"/_next/static/chunks/app/api/challenge/equity-history/route-fde39d298d49572a.js",revision:"fde39d298d49572a"},{url:"/_next/static/chunks/app/api/challenge/hall-of-fame/route-fde39d298d49572a.js",revision:"fde39d298d49572a"},{url:"/_next/static/chunks/app/api/challenge/hall/detail/route-fde39d298d49572a.js",revision:"fde39d298d49572a"},{url:"/_next/static/chunks/app/api/challenge/hall/route-fde39d298d49572a.js",revision:"fde39d298d49572a"},{url:"/_next/static/chunks/app/api/challenge/init/route-fde39d298d49572a.js",revision:"fde39d298d49572a"},{url:"/_next/static/chunks/app/api/challenge/level/route-fde39d298d49572a.js",revision:"fde39d298d49572a"},{url:"/_next/static/chunks/app/api/challenge/participants/route-fde39d298d49572a.js",revision:"fde39d298d49572a"},{url:"/_next/static/chunks/app/api/challenge/player/%5BuserId%5D/route-fde39d298d49572a.js",revision:"fde39d298d49572a"},{url:"/_next/static/chunks/app/api/challenge/player/%5BuserId%5D/trades/route-fde39d298d49572a.js",revision:"fde39d298d49572a"},{url:"/_next/static/chunks/app/api/challenge/register/route-fde39d298d49572a.js",revision:"fde39d298d49572a"},{url:"/_next/static/chunks/app/api/coin/transfer/route-fde39d298d49572a.js",revision:"fde39d298d49572a"},{url:"/_next/static/chunks/app/api/debug-db/route-fde39d298d49572a.js",revision:"fde39d298d49572a"},{url:"/_next/static/chunks/app/api/docs/route-fde39d298d49572a.js",revision:"fde39d298d49572a"},{url:"/_next/static/chunks/app/api/ea/download/route-fde39d298d49572a.js",revision:"fde39d298d49572a"},{url:"/_next/static/chunks/app/api/ea/list/route-fde39d298d49572a.js",revision:"fde39d298d49572a"},{url:"/_next/static/chunks/app/api/ea/manage/route-fde39d298d49572a.js",revision:"fde39d298d49572a"},{url:"/_next/static/chunks/app/api/ea/products/route-fde39d298d49572a.js",revision:"fde39d298d49572a"},{url:"/_next/static/chunks/app/api/ea/purchase/route-fde39d298d49572a.js",revision:"fde39d298d49572a"},{url:"/_next/static/chunks/app/api/ea/upload/route-fde39d298d49572a.js",revision:"fde39d298d49572a"},{url:"/_next/static/chunks/app/api/equity/report/route-fde39d298d49572a.js",revision:"fde39d298d49572a"},{url:"/_next/static/chunks/app/api/follow/my/route-fde39d298d49572a.js",revision:"fde39d298d49572a"},{url:"/_next/static/chunks/app/api/follow/pause/route-fde39d298d49572a.js",revision:"fde39d298d49572a"},{url:"/_next/static/chunks/app/api/follow/route-fde39d298d49572a.js",revision:"fde39d298d49572a"},{url:"/_next/static/chunks/app/api/health/route-fde39d298d49572a.js",revision:"fde39d298d49572a"},{url:"/_next/static/chunks/app/api/message/conversations/route-fde39d298d49572a.js",revision:"fde39d298d49572a"},{url:"/_next/static/chunks/app/api/message/send/route-fde39d298d49572a.js",revision:"fde39d298d49572a"},{url:"/_next/static/chunks/app/api/message/upload/route-fde39d298d49572a.js",revision:"fde39d298d49572a"},{url:"/_next/static/chunks/app/api/mt-account/route-fde39d298d49572a.js",revision:"fde39d298d49572a"},{url:"/_next/static/chunks/app/api/planet/%5Bid%5D/route-fde39d298d49572a.js",revision:"fde39d298d49572a"},{url:"/_next/static/chunks/app/api/planet/applications/route-fde39d298d49572a.js",revision:"fde39d298d49572a"},{url:"/_next/static/chunks/app/api/planet/apply-publisher/route-fde39d298d49572a.js",revision:"fde39d298d49572a"},{url:"/_next/static/chunks/app/api/planet/approve-publisher/route-fde39d298d49572a.js",revision:"fde39d298d49572a"},{url:"/_next/static/chunks/app/api/planet/create/route-fde39d298d49572a.js",revision:"fde39d298d49572a"},{url:"/_next/static/chunks/app/api/planet/join/route-fde39d298d49572a.js",revision:"fde39d298d49572a"},{url:"/_next/static/chunks/app/api/planet/list/route-fde39d298d49572a.js",revision:"fde39d298d49572a"},{url:"/_next/static/chunks/app/api/planet/members/route-fde39d298d49572a.js",revision:"fde39d298d49572a"},{url:"/_next/static/chunks/app/api/planet/my/route-fde39d298d49572a.js",revision:"fde39d298d49572a"},{url:"/_next/static/chunks/app/api/planet/reject-publisher/route-fde39d298d49572a.js",revision:"fde39d298d49572a"},{url:"/_next/static/chunks/app/api/planet/set-owner-publisher/route-fde39d298d49572a.js",revision:"fde39d298d49572a"},{url:"/_next/static/chunks/app/api/planet/set-ticket/route-fde39d298d49572a.js",revision:"fde39d298d49572a"},{url:"/_next/static/chunks/app/api/planet/update/route-fde39d298d49572a.js",revision:"fde39d298d49572a"},{url:"/_next/static/chunks/app/api/purchase/validate/route-fde39d298d49572a.js",revision:"fde39d298d49572a"},{url:"/_next/static/chunks/app/api/read-doc/route-fde39d298d49572a.js",revision:"fde39d298d49572a"},{url:"/_next/static/chunks/app/api/recharge/apply/route-fde39d298d49572a.js",revision:"fde39d298d49572a"},{url:"/_next/static/chunks/app/api/recharge/route-fde39d298d49572a.js",revision:"fde39d298d49572a"},{url:"/_next/static/chunks/app/api/recharge/upload/route-fde39d298d49572a.js",revision:"fde39d298d49572a"},{url:"/_next/static/chunks/app/api/signal/%5Bid%5D/route-fde39d298d49572a.js",revision:"fde39d298d49572a"},{url:"/_next/static/chunks/app/api/signal/receive/route-fde39d298d49572a.js",revision:"fde39d298d49572a"},{url:"/_next/static/chunks/app/api/signals/detail/route-fde39d298d49572a.js",revision:"fde39d298d49572a"},{url:"/_next/static/chunks/app/api/signals/poll/route-fde39d298d49572a.js",revision:"fde39d298d49572a"},{url:"/_next/static/chunks/app/api/signals/stats/route-fde39d298d49572a.js",revision:"fde39d298d49572a"},{url:"/_next/static/chunks/app/api/upload-code/route-fde39d298d49572a.js",revision:"fde39d298d49572a"},{url:"/_next/static/chunks/app/api/upload/screenshot/route-fde39d298d49572a.js",revision:"fde39d298d49572a"},{url:"/_next/static/chunks/app/api/user/avatar/route-fde39d298d49572a.js",revision:"fde39d298d49572a"},{url:"/_next/static/chunks/app/api/user/follow/list/route-fde39d298d49572a.js",revision:"fde39d298d49572a"},{url:"/_next/static/chunks/app/api/user/follow/route-fde39d298d49572a.js",revision:"fde39d298d49572a"},{url:"/_next/static/chunks/app/api/user/info/route-fde39d298d49572a.js",revision:"fde39d298d49572a"},{url:"/_next/static/chunks/app/api/user/name/route-fde39d298d49572a.js",revision:"fde39d298d49572a"},{url:"/_next/static/chunks/app/api/user/profile/route-fde39d298d49572a.js",revision:"fde39d298d49572a"},{url:"/_next/static/chunks/app/api/user/search/route-fde39d298d49572a.js",revision:"fde39d298d49572a"},{url:"/_next/static/chunks/app/challenge/hall-of-fame/page-c9c8bb92e172543e.js",revision:"c9c8bb92e172543e"},{url:"/_next/static/chunks/app/challenge/hall/detail/page-6a0904f5ee2e88b4.js",revision:"6a0904f5ee2e88b4"},{url:"/_next/static/chunks/app/challenge/hall/page-769a500987a652ca.js",revision:"769a500987a652ca"},{url:"/_next/static/chunks/app/challenge/page-b0437daf03a4033e.js",revision:"b0437daf03a4033e"},{url:"/_next/static/chunks/app/challenge/play/page-dec9dfb1290ddd3d.js",revision:"dec9dfb1290ddd3d"},{url:"/_next/static/chunks/app/challenge/player/%5BuserId%5D/page-b972aec196f73c3d.js",revision:"b972aec196f73c3d"},{url:"/_next/static/chunks/app/diagnose/page-92c6d17db6fa0ea4.js",revision:"92c6d17db6fa0ea4"},{url:"/_next/static/chunks/app/docs/page-7fc46ef9dff33095.js",revision:"7fc46ef9dff33095"},{url:"/_next/static/chunks/app/download/android/page-d1713c5d945f4f28.js",revision:"d1713c5d945f4f28"},{url:"/_next/static/chunks/app/download/page-9e3b0cba6a01f1c8.js",revision:"9e3b0cba6a01f1c8"},{url:"/_next/static/chunks/app/layout-daec6dee9a6552a8.js",revision:"daec6dee9a6552a8"},{url:"/_next/static/chunks/app/login/page-72cbe983df3f98b4.js",revision:"72cbe983df3f98b4"},{url:"/_next/static/chunks/app/page-3ac27f4a555c1f2c.js",revision:"3ac27f4a555c1f2c"},{url:"/_next/static/chunks/app/planet/%5Bid%5D/page-227dc066e12b4471.js",revision:"227dc066e12b4471"},{url:"/_next/static/chunks/app/planet/create/page-dd423c427b7e6d49.js",revision:"dd423c427b7e6d49"},{url:"/_next/static/chunks/app/planet/manage/%5Bid%5D/page-a2ad103ccbf4c517.js",revision:"a2ad103ccbf4c517"},{url:"/_next/static/chunks/app/planet/my/page-60cb759fb4ab9ca7.js",revision:"60cb759fb4ab9ca7"},{url:"/_next/static/chunks/app/planet/page-7137ef7a3ffa106c.js",revision:"7137ef7a3ffa106c"},{url:"/_next/static/chunks/app/register/page-a3d7c2df06546348.js",revision:"a3d7c2df06546348"},{url:"/_next/static/chunks/app/robots.txt/route-fde39d298d49572a.js",revision:"fde39d298d49572a"},{url:"/_next/static/chunks/app/signal/%5Baccount%5D/page-ff0340133fcf237b.js",revision:"ff0340133fcf237b"},{url:"/_next/static/chunks/app/social/page-6e9343de279803f8.js",revision:"6e9343de279803f8"},{url:"/_next/static/chunks/app/user/page-64e43a14dd2d8b76.js",revision:"64e43a14dd2d8b76"},{url:"/_next/static/chunks/framework-55ab4b4de3eb4ec8.js",revision:"55ab4b4de3eb4ec8"},{url:"/_next/static/chunks/main-2e50d6483b5a78b0.js",revision:"2e50d6483b5a78b0"},{url:"/_next/static/chunks/main-app-e2a6d6c57a4d8e1c.js",revision:"e2a6d6c57a4d8e1c"},{url:"/_next/static/chunks/next/dist/client/components/builtin/app-error-fde39d298d49572a.js",revision:"fde39d298d49572a"},{url:"/_next/static/chunks/next/dist/client/components/builtin/forbidden-fde39d298d49572a.js",revision:"fde39d298d49572a"},{url:"/_next/static/chunks/next/dist/client/components/builtin/global-error-0a754105eadbaae1.js",revision:"0a754105eadbaae1"},{url:"/_next/static/chunks/next/dist/client/components/builtin/not-found-fde39d298d49572a.js",revision:"fde39d298d49572a"},{url:"/_next/static/chunks/next/dist/client/components/builtin/unauthorized-fde39d298d49572a.js",revision:"fde39d298d49572a"},{url:"/_next/static/chunks/polyfills-42372ed130431b0a.js",revision:"846118c33b2c0e922d7b3a7676f81f6f"},{url:"/_next/static/chunks/webpack-e5a10cf60ba54591.js",revision:"e5a10cf60ba54591"},{url:"/_next/static/css/0366189a42ba2609.css",revision:"0366189a42ba2609"},{url:"/_next/static/css/1d33e9b82c6d193e.css",revision:"1d33e9b82c6d193e"},{url:"/_next/static/css/5082389ef2110b63.css",revision:"5082389ef2110b63"},{url:"/_next/static/css/5d83e0ada55d2773.css",revision:"5d83e0ada55d2773"},{url:"/_next/static/css/813ffdc51a90edf4.css",revision:"813ffdc51a90edf4"},{url:"/download/miaolegemiao-android-app.tar.gz",revision:"8fdf33b2f0d98967e3bdf7a0774030d9"},{url:"/favicon.ico",revision:"0fc672880a975cfc4c8c7ad923823a9b"},{url:"/file.svg",revision:"d09f95206c3fa0bb9bd9fefabfd0ea71"},{url:"/globe.svg",revision:"2aaafa6a49b6563925fe440891e32717"},{url:"/icons/icon-128x128.png",revision:"540845157d80ab5347417294edc58c75"},{url:"/icons/icon-144x144.png",revision:"5fcf60988225c374886f65e018750850"},{url:"/icons/icon-152x152.png",revision:"a93f7b53c274a5d0f59026e5b83ad4df"},{url:"/icons/icon-192x192.png",revision:"5f48501726515a163395780abf6dc285"},{url:"/icons/icon-384x384.png",revision:"b7935298f36c245c91b895af5c107379"},{url:"/icons/icon-512x512.png",revision:"d2d569b7047e08cc0deb4e2eb166c2fa"},{url:"/icons/icon-72x72.png",revision:"1fc09bb2b71ef3aba10bf741e8e81d67"},{url:"/icons/icon-96x96.png",revision:"f35dad04d8b668a966da8e64c97acc23"},{url:"/icons/icon.svg",revision:"a085adc932541bfe397f09a0db4982bc"},{url:"/icons/planet-shortcut.png",revision:"fece5f9f80fb7384d3df1390e08fab28"},{url:"/icons/user-shortcut.png",revision:"0c5f5b8686ec799c4fb1b70acb9ca401"},{url:"/logo.png",revision:"04165e83c749c9be3d0289920ce60209"},{url:"/manifest.json",revision:"8158ac4504cfac44d80432ed7276e8a6"},{url:"/mlmg-planet-code.tar.gz",revision:"bc2c0901539bbfa25b58c0ec48452300"},{url:"/next.svg",revision:"8e061864f388b47f33a1c3780831193e"},{url:"/vercel.svg",revision:"c0af2f507b369b085b35ef4bbe3bcf1e"},{url:"/window.svg",revision:"a2760511c65806022ad20adf74370ff3"},{url:"/跟单接收端EA.mq5",revision:"55bdd58fd0a1513ed92d91fc1e71d6a9"}],{ignoreURLParametersMatching:[]}),e.cleanupOutdatedCaches(),e.registerRoute("/",new e.NetworkFirst({cacheName:"start-url",plugins:[{cacheWillUpdate:async({request:e,response:a,event:d,state:s})=>a&&"opaqueredirect"===a.type?new Response(a.body,{status:200,statusText:"OK",headers:a.headers}):a}]}),"GET"),e.registerRoute(/^https:\/\/.*\.(?:png|jpg|jpeg|svg|gif|webp|ico)$/i,new e.CacheFirst({cacheName:"images-cache",plugins:[new e.ExpirationPlugin({maxEntries:50,maxAgeSeconds:2592e3})]}),"GET"),e.registerRoute(/^https:\/\/.*\.(?:js|css)$/i,new e.StaleWhileRevalidate({cacheName:"static-resources",plugins:[new e.ExpirationPlugin({maxEntries:30,maxAgeSeconds:604800})]}),"GET"),e.registerRoute(/\/api\//i,new e.NetworkFirst({cacheName:"api-cache",networkTimeoutSeconds:10,plugins:[new e.ExpirationPlugin({maxEntries:50,maxAgeSeconds:300})]}),"GET")});